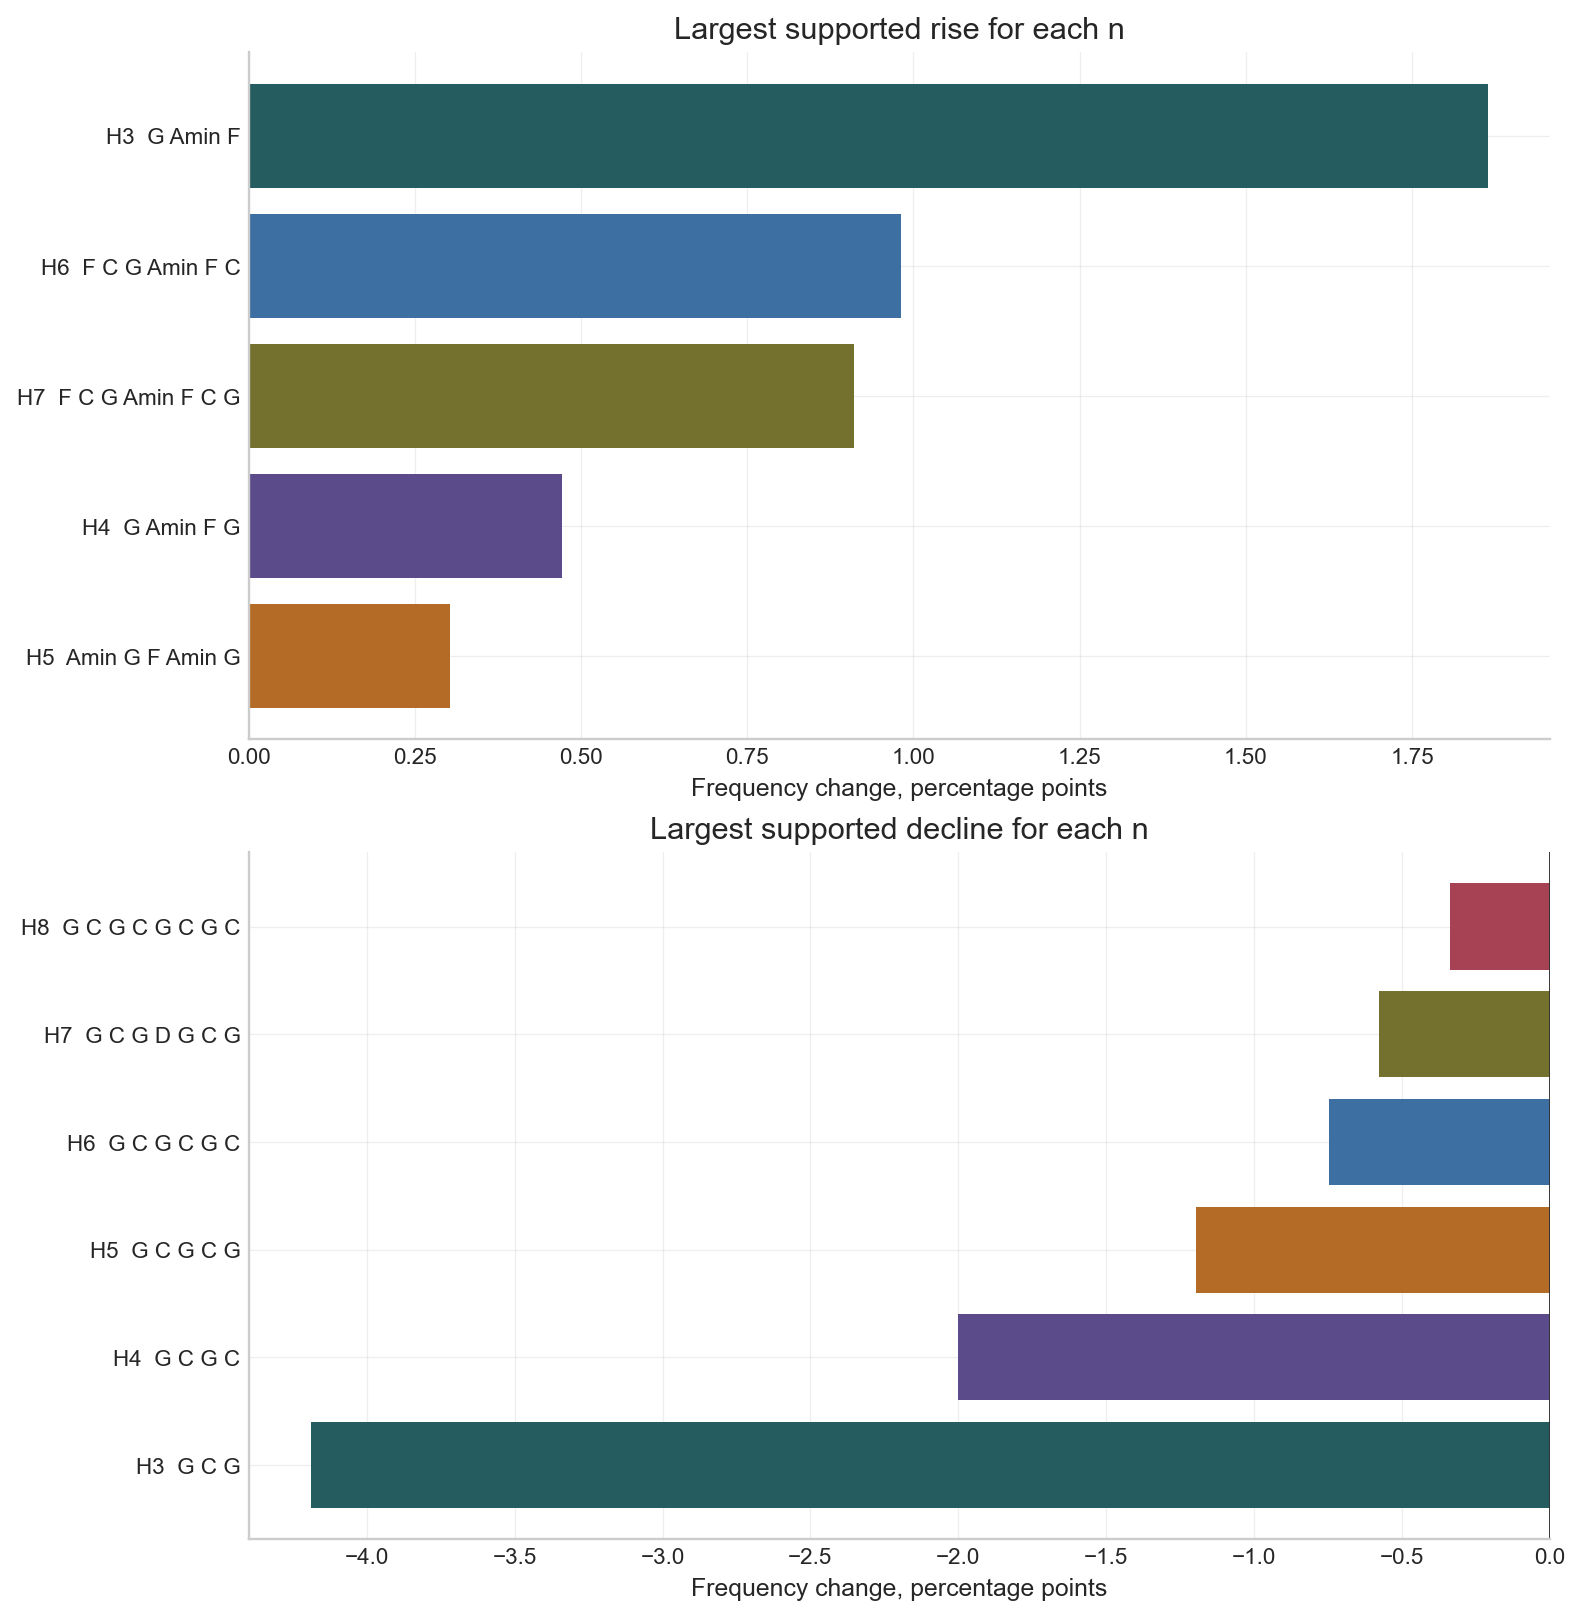
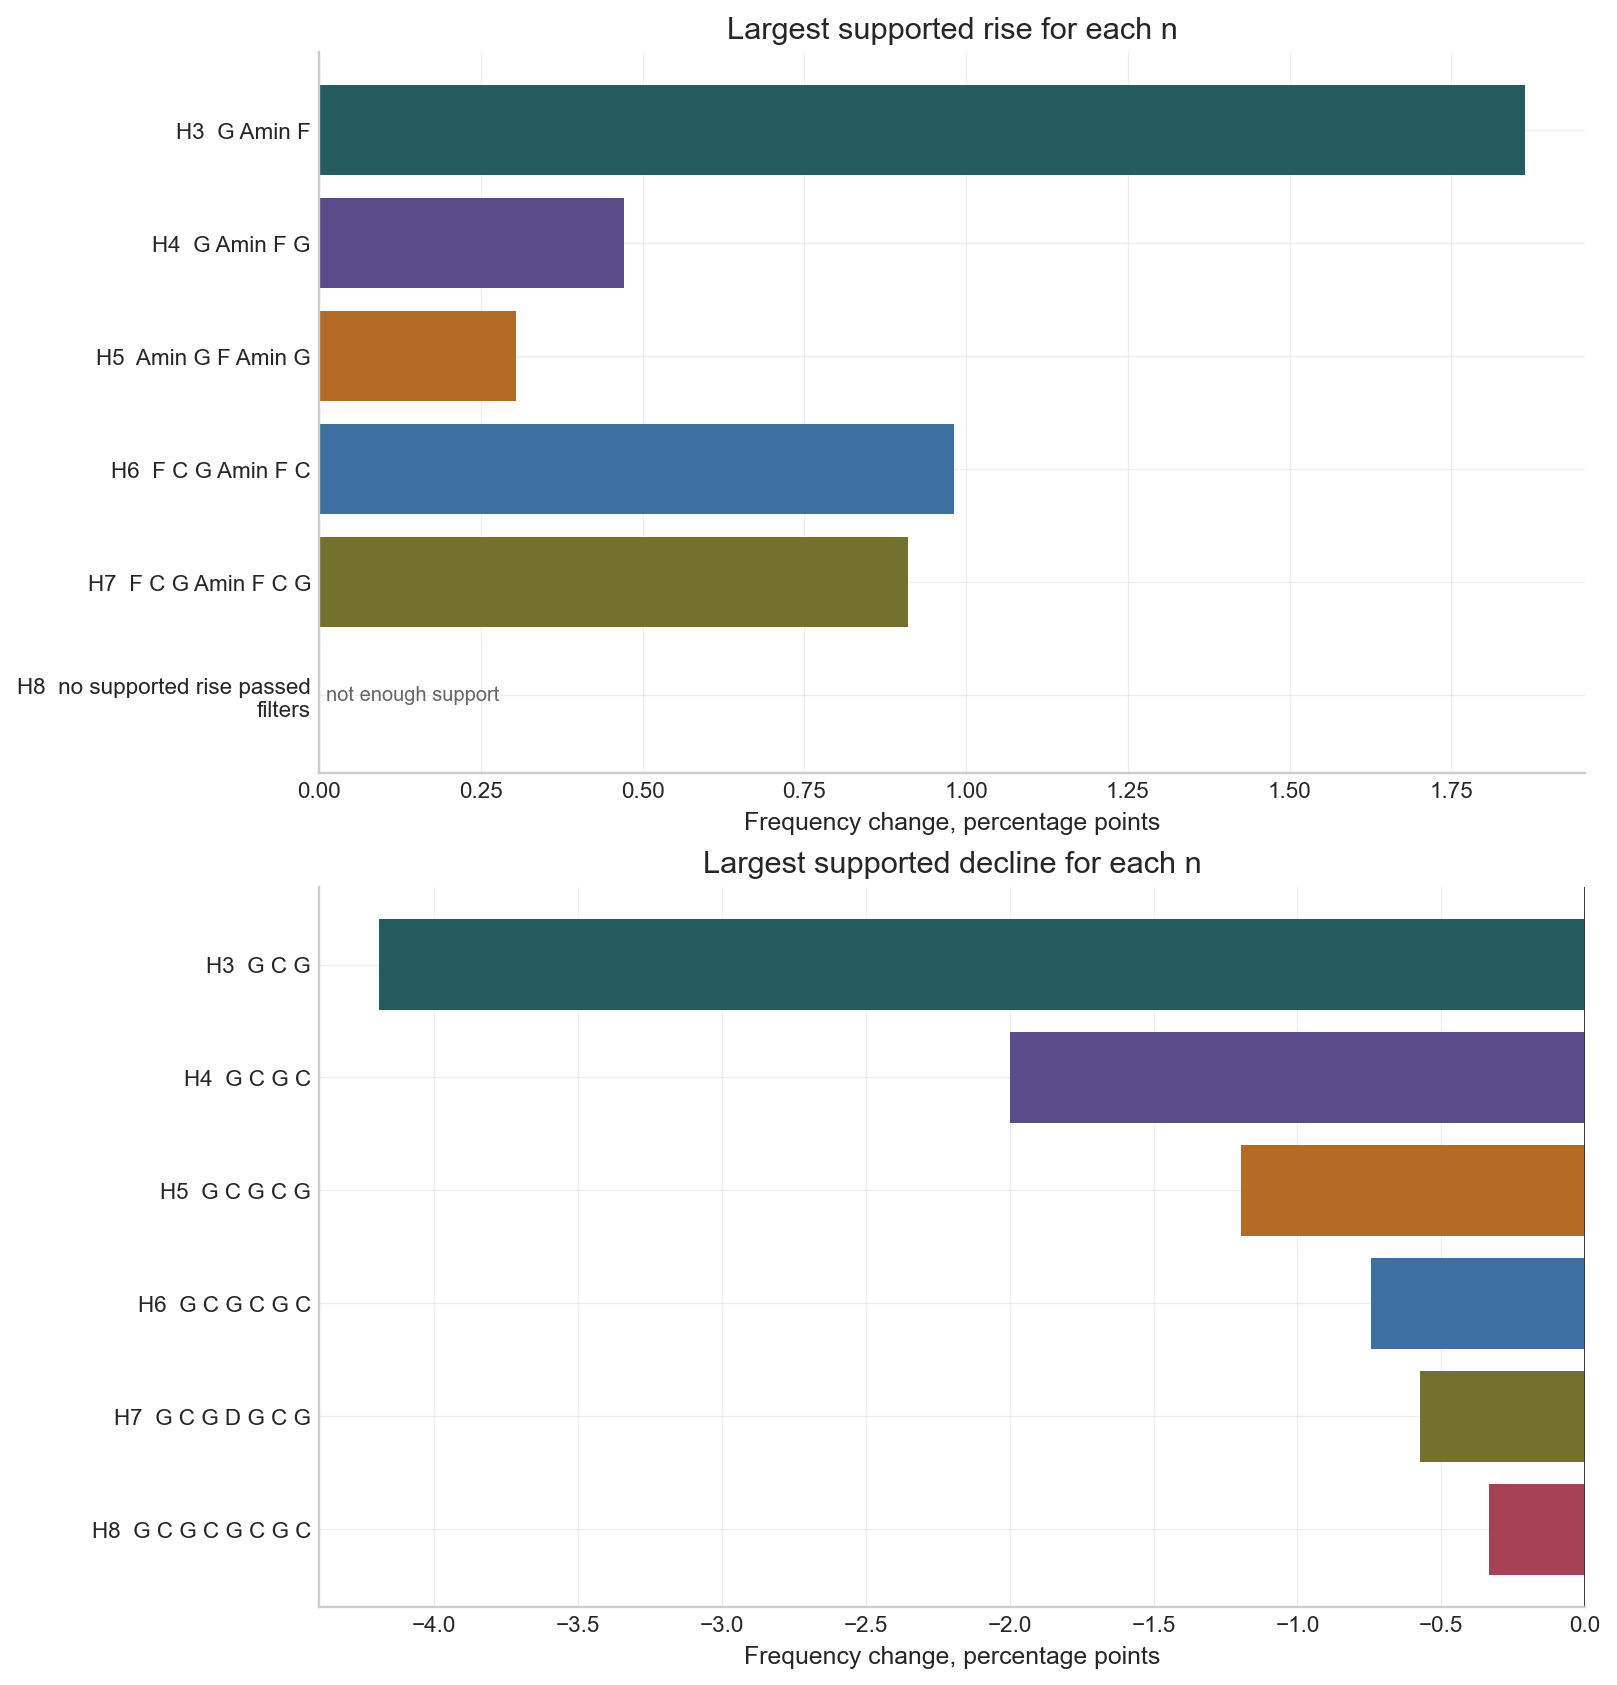
Add figure

diff --git a/README.md b/README.md
@@ -154,6 +154,25 @@ evidence-backed leads. The project favors careful measurable claims over broad
 claims about whether music is simply becoming better, worse, simpler, or more
 complex.
 
+### Common does not always mean informative
+
+The most frequent harmonic `n`-grams are often like the most frequent words in a
+text corpus: real, important, and structurally necessary, but not always the
+most diagnostic. In language, words like "the" or "and" tell us less about
+document identity than more specific terms. In this project, very common
+harmonic loops can behave the same way. The analysis therefore separates:
+
+- **stop-gram-like patterns:** globally common harmonic material that appears
+  across many songs, decades, and genres;
+- **signature patterns:** harmonic families with high lift or TF-IDF in a
+  particular genre, decade, or artist;
+- **distributional neighbors:** harmonic classes that occur in similar song
+  contexts, even if they are not the most frequent patterns overall.
+
+This is why the project does not stop at a top-`n` frequency table. Frequency is
+the starting point; specificity, context, and embeddings are where the more
+interesting musical signal appears.
+
 ### Harmonic vocabulary changes over time
 
 The corpus does not point to a simple "more complex" or "less complex" story.
@@ -177,7 +196,9 @@ older tonic-dominant loops such as `G C G`, `C G C`, and repeated `G C` patterns
 
 Each bar shows the largest supported frequency movement for a given `n`. The
 point is not that one progression explains a decade, but that the pipeline can
-surface musically interpretable candidates for follow-up analysis.
+surface musically interpretable candidates for follow-up analysis. If an `n`
+value has no bar on one side, no candidate passed the current support filters
+for that direction of change.
 
 ### Genre has a measurable harmonic signature
 
@@ -191,6 +212,23 @@ signature families and different levels of concentration.
 Lift compares a harmonic family's frequency inside one genre against the rest of
 the corpus. High lift identifies harmonic material that is unusually
 characteristic of a genre rather than merely common everywhere.
+
+### Genre structure appears in harmonic-vector space
+
+The embedding outputs can also be aggregated by genre. Each point below is a
+genre centroid: a weighted average of harmonic class embeddings for one genre
+and one `n`. This makes the genre question more precise. Instead of asking only
+"what are the most popular n-grams?", we can ask whether genres occupy different
+regions of harmonic space, and whether those separations change as the harmonic
+window gets longer.
+
+![Genre harmonic embedding centroids](docs/assets/genre_harmonic_embedding_centroids.png)
+
+The centroid plots suggest that genre is visible in the harmonic vocabulary, but
+not as a single fixed ordering. Some genres cluster differently depending on
+whether we look at short contexts such as `H3` or longer phrase windows such as
+`H7` and `H8`. That is useful for recommendation: a system can tune similarity
+to short harmonic gestures, longer phrase behavior, or a mixture of both.
 
 ### Harmonic classes can be embedded by usage
 